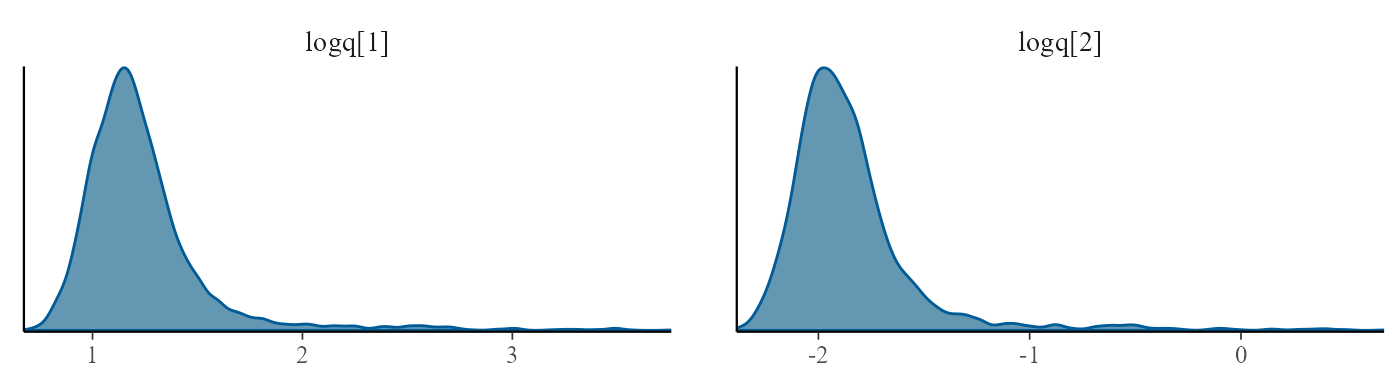
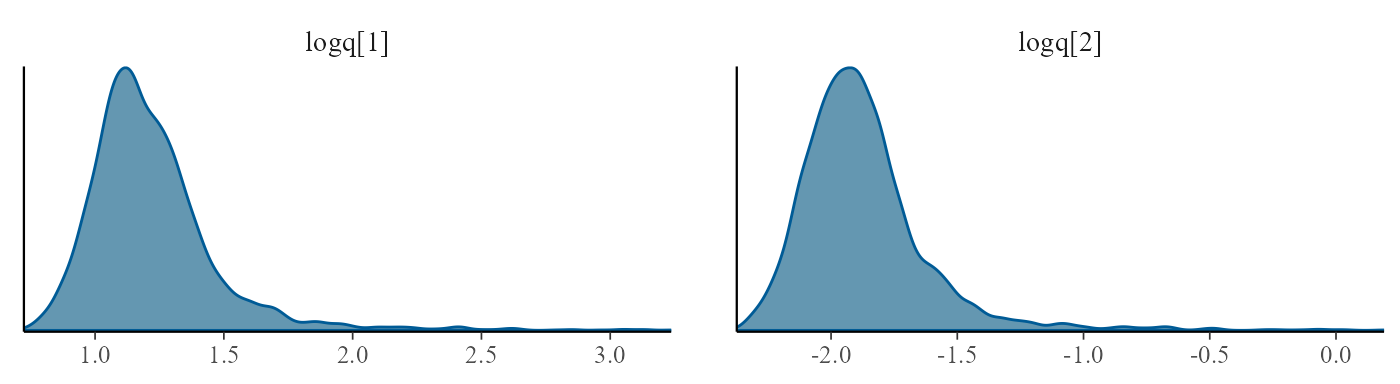
Rebuild articles

diff --git a/docs/articles/examples.html b/docs/articles/examples.html
@@ -31,12 +31,10 @@
 <li class="active nav-item dropdown">
   <button class="nav-link dropdown-toggle" type="button" id="dropdown-articles" data-bs-toggle="dropdown" aria-expanded="false" aria-haspopup="true">Articles</button>
   <ul class="dropdown-menu" aria-labelledby="dropdown-articles">
-<li><a class="dropdown-item" href="../articles/advanced.html">Advanced multi-state models in msmbayes</a></li>
-    <li><a class="dropdown-item" href="../articles/examples.html">Examples of using msmbayes</a></li>
+<li><a class="dropdown-item" href="../articles/examples.html">Examples of using msmbayes</a></li>
     <li><a class="dropdown-item" href="../articles/misclass.html">Misclassification multi-state models in msmbayes</a></li>
+    <li><a class="dropdown-item" href="../articles/semimarkov.html">Semi-Markov models with msmbayes</a></li>
     <li><a class="dropdown-item" href="../articles/nphase.html">Advanced phase-type models in msmbayes</a></li>
-    <li><a class="dropdown-item" href="../articles/pastates.html">Examples of using msmbayes</a></li>
-    <li><a class="dropdown-item" href="../articles/semimarkov.html">Semi-Markov models for intermittent observations with msmbayes</a></li>
   </ul>
 </li>
 <li class="nav-item"><a class="nav-link" href="../news/index.html">Changelog</a></li>
@@ -99,7 +97,7 @@ longitudinal study where people are repeatedly tested for an
 infection.</p>
 <p>We assume a two-state multi-state model, with states “test positive”
 and “test negative”.</p>
-<p><img src="../reference/figures/twostate.png" width="400px"></p>
+<p><img src="../reference/figures/twostate.png" alt="A two-state Markov model" width="400px"></p>
 <p>The data are simulated from a continuous-time Markov model with the
 following transition intensity matrix. Expressed in days or months,
 respectively, this is</p>
@@ -176,6 +174,9 @@ names.</p>
 <span>           <span class="fu"><a href="https://rdrr.io/r/base/c.html" class="external-link">c</a></span><span class="op">(</span><span class="fl">1</span>, <span class="fl">0</span><span class="op">)</span><span class="op">)</span></span>
 <span><span class="va">draws</span> <span class="op">&lt;-</span> <span class="fu"><a href="../reference/msmbayes.html">msmbayes</a></span><span class="op">(</span>data<span class="op">=</span><span class="va">infsim</span>, state<span class="op">=</span><span class="st">"state"</span>, time<span class="op">=</span><span class="st">"months"</span>, subject<span class="op">=</span><span class="st">"subject"</span>,</span>
 <span>                  Q<span class="op">=</span><span class="va">Q</span><span class="op">)</span></span></code></pre></div>
+<pre><code><span><span class="co">## Warning: Tail Effective Samples Size (ESS) is too low, indicating posterior variances and tail quantiles may be unreliable.</span></span>
+<span><span class="co">## Running the chains for more iterations may help. See</span></span>
+<span><span class="co">## https://mc-stan.org/misc/warnings.html#tail-ess</span></span></code></pre>
 <div class="section level4">
 <h4 id="transition-structure">Transition structure<a class="anchor" aria-label="anchor" href="#transition-structure"></a>
 </h4>
@@ -238,7 +239,7 @@ various alternative ways:</p>
 <p>Directly specifying the mean and standard deviation for
 <math display="inline" xmlns="http://www.w3.org/1998/Math/MathML"><semantics><mrow><mo>log</mo><mrow><mo stretchy="true" form="prefix">(</mo><msub><mi>q</mi><mrow><mi>r</mi><mi>s</mi></mrow></msub><mo stretchy="true" form="postfix">)</mo></mrow></mrow><annotation encoding="application/x-tex">\log(q_{rs})</annotation></semantics></math>,
 e.g.:</p>
-<div class="sourceCode" id="cb7"><pre class="downlit sourceCode r">
+<div class="sourceCode" id="cb8"><pre class="downlit sourceCode r">
 <code class="sourceCode R"><span><span class="va">priors</span> <span class="op">&lt;-</span> <span class="fu"><a href="https://rdrr.io/r/base/list.html" class="external-link">list</a></span><span class="op">(</span></span>
 <span>  <span class="fu"><a href="../reference/msmprior.html">msmprior</a></span><span class="op">(</span><span class="st">"logq(1,2)"</span>, mean<span class="op">=</span><span class="op">-</span><span class="fl">1</span>, sd<span class="op">=</span><span class="fl">5</span><span class="op">)</span>,</span>
 <span>  <span class="fu"><a href="../reference/msmprior.html">msmprior</a></span><span class="op">(</span><span class="st">"logq(2,1)"</span>, mean<span class="op">=</span><span class="op">-</span><span class="fl">1</span>, sd<span class="op">=</span><span class="fl">5</span><span class="op">)</span></span>
@@ -265,7 +266,7 @@ distribution on
 <math display="inline" xmlns="http://www.w3.org/1998/Math/MathML"><semantics><mrow><mo>log</mo><mrow><mo stretchy="true" form="prefix">(</mo><msub><mi>q</mi><mrow><mi>r</mi><mi>s</mi></mrow></msub><mo stretchy="true" form="postfix">)</mo></mrow></mrow><annotation encoding="application/x-tex">\log(q_{rs})</annotation></semantics></math>
 to be deduced. Different specifications can be mixed for different
 parameters, e.g. </p>
-<div class="sourceCode" id="cb8"><pre class="downlit sourceCode r">
+<div class="sourceCode" id="cb9"><pre class="downlit sourceCode r">
 <code class="sourceCode R"><span><span class="va">priors</span> <span class="op">&lt;-</span> <span class="fu"><a href="https://rdrr.io/r/base/list.html" class="external-link">list</a></span><span class="op">(</span></span>
 <span>  <span class="fu"><a href="../reference/msmprior.html">msmprior</a></span><span class="op">(</span><span class="st">"q(2,1)"</span>,    lower<span class="op">=</span><span class="fl">0.001</span>, upper<span class="op">=</span><span class="fl">5</span><span class="op">)</span>,</span>
 <span>  <span class="fu"><a href="../reference/msmprior.html">msmprior</a></span><span class="op">(</span><span class="st">"time(1,2)"</span>, median<span class="op">=</span><span class="fl">10</span>, upper<span class="op">=</span><span class="fl">30</span><span class="op">)</span></span>
@@ -316,11 +317,11 @@ transition intensities, labelled <code>logq</code>), and to examine the
 posterior distributions. Trace plots should look horizontal and fuzzy,
 like a sequence of independent draws from the same distribution, if the
 chains have converged (as here).</p>
-<div class="sourceCode" id="cb10"><pre class="downlit sourceCode r">
+<div class="sourceCode" id="cb11"><pre class="downlit sourceCode r">
 <code class="sourceCode R"><span><span class="kw"><a href="https://rdrr.io/r/base/library.html" class="external-link">library</a></span><span class="op">(</span><span class="va"><a href="https://mc-stan.org/bayesplot/" class="external-link">bayesplot</a></span><span class="op">)</span></span>
 <span><span class="fu"><a href="https://mc-stan.org/bayesplot/reference/MCMC-traces.html" class="external-link">mcmc_trace</a></span><span class="op">(</span><span class="va">draws</span>, pars<span class="op">=</span><span class="fu"><a href="https://rdrr.io/r/base/c.html" class="external-link">c</a></span><span class="op">(</span><span class="st">"logq[1]"</span>,<span class="st">"logq[2]"</span><span class="op">)</span><span class="op">)</span></span></code></pre></div>
 <p><img src="examples_files/figure-html/unnamed-chunk-7-1.png" width="700"></p>
-<div class="sourceCode" id="cb11"><pre class="downlit sourceCode r">
+<div class="sourceCode" id="cb12"><pre class="downlit sourceCode r">
 <code class="sourceCode R"><span><span class="fu"><a href="https://mc-stan.org/bayesplot/reference/MCMC-distributions.html" class="external-link">mcmc_dens</a></span><span class="op">(</span><span class="va">draws</span>, pars<span class="op">=</span><span class="fu"><a href="https://rdrr.io/r/base/c.html" class="external-link">c</a></span><span class="op">(</span><span class="st">"logq[1]"</span>,<span class="st">"logq[2]"</span><span class="op">)</span><span class="op">)</span></span></code></pre></div>
 <p><img src="examples_files/figure-html/unnamed-chunk-7-2.png" width="700"></p>
 <p>The <code><a href="https://rdrr.io/r/base/summary.html" class="external-link">summary()</a></code> function can be used to summarise the
@@ -330,15 +331,15 @@ summary of the posterior for each parameter (variable
 parameter. Since transition intensities are hard to interpret in
 isolation, the mean sojourn times in each state are included alongside,
 labelled <code>mst</code>.</p>
-<div class="sourceCode" id="cb12"><pre class="downlit sourceCode r">
+<div class="sourceCode" id="cb13"><pre class="downlit sourceCode r">
 <code class="sourceCode R"><span><span class="fu"><a href="https://rdrr.io/r/base/summary.html" class="external-link">summary</a></span><span class="op">(</span><span class="va">draws</span><span class="op">)</span></span></code></pre></div>
-<pre><code><span><span class="co">## <span style="color: #949494;"># A tibble: 4 × 5</span></span></span>
-<span><span class="co">##   name   from    to         value  rhat</span></span>
-<span><span class="co">##   <span style="color: #949494; font-style: italic;">&lt;chr&gt;</span> <span style="color: #949494; font-style: italic;">&lt;int&gt;</span> <span style="color: #949494; font-style: italic;">&lt;int&gt;</span>    <span style="color: #949494; font-style: italic;">&lt;rvar[1d]&gt;</span> <span style="color: #949494; font-style: italic;">&lt;dbl&gt;</span></span></span>
-<span><span class="co">## <span style="color: #BCBCBC;">1</span> q         1     2  0.17 <span style="color: #949494;">± 0.110</span>  1.00</span></span>
-<span><span class="co">## <span style="color: #BCBCBC;">2</span> q         2     1  3.72 <span style="color: #949494;">± 2.391</span>  1.00</span></span>
-<span><span class="co">## <span style="color: #BCBCBC;">3</span> mst       1    <span style="color: #BB0000;">NA</span>  6.60 <span style="color: #949494;">± 1.536</span>  1.00</span></span>
-<span><span class="co">## <span style="color: #BCBCBC;">4</span> mst       2    <span style="color: #BB0000;">NA</span>  0.30 <span style="color: #949494;">± 0.069</span>  1.00</span></span></code></pre>
+<pre><code><span><span class="co">## <span style="color: #949494;"># A tibble: 4 × 6</span></span></span>
+<span><span class="co">##   name   from    to         value  rhat prior_string      </span></span>
+<span><span class="co">##   <span style="color: #949494; font-style: italic;">&lt;chr&gt;</span> <span style="color: #949494; font-style: italic;">&lt;int&gt;</span> <span style="color: #949494; font-style: italic;">&lt;int&gt;</span>    <span style="color: #949494; font-style: italic;">&lt;rvar[1d]&gt;</span> <span style="color: #949494; font-style: italic;">&lt;dbl&gt;</span> <span style="color: #949494; font-style: italic;">&lt;chr&gt;</span>             </span></span>
+<span><span class="co">## <span style="color: #BCBCBC;">1</span> q         1     2  0.16 <span style="color: #949494;">± 0.063</span>  1.01 0.14 (0.0027, 6.7)</span></span>
+<span><span class="co">## <span style="color: #BCBCBC;">2</span> q         2     1  3.53 <span style="color: #949494;">± 1.390</span>  1.01 0.14 (0.0027, 6.7)</span></span>
+<span><span class="co">## <span style="color: #BCBCBC;">3</span> mst       1    <span style="color: #BB0000;">NA</span>  6.68 <span style="color: #949494;">± 1.420</span>  1.01 7.4 (0.15, 369)   </span></span>
+<span><span class="co">## <span style="color: #BCBCBC;">4</span> mst       2    <span style="color: #BB0000;">NA</span>  0.30 <span style="color: #949494;">± 0.063</span>  1.01 7.4 (0.15, 369)</span></span></code></pre>
 <p>The mean sojourn times are estimated to be (within estimation error)
 close to the true values of 6 and 0.33 months, as expected.</p>
 <p>Set <code>time=TRUE</code> to summarise the
@@ -347,15 +348,15 @@ close to the true values of 6 and 0.33 months, as expected.</p>
 their priors. If there are no competing risks, as here, these are equal
 to the mean sojourn times. Or set <code>log=TRUE</code> to summarise the
 <math display="inline" xmlns="http://www.w3.org/1998/Math/MathML"><semantics><mrow><mo>log</mo><mrow><mo stretchy="true" form="prefix">(</mo><msub><mi>q</mi><mrow><mi>r</mi><mi>s</mi></mrow></msub><mo stretchy="true" form="postfix">)</mo></mrow></mrow><annotation encoding="application/x-tex">\log(q_{rs})</annotation></semantics></math>.</p>
-<div class="sourceCode" id="cb14"><pre class="downlit sourceCode r">
+<div class="sourceCode" id="cb15"><pre class="downlit sourceCode r">
 <code class="sourceCode R"><span><span class="fu"><a href="https://rdrr.io/r/base/summary.html" class="external-link">summary</a></span><span class="op">(</span><span class="va">draws</span>, time<span class="op">=</span><span class="cn">TRUE</span><span class="op">)</span></span></code></pre></div>
-<pre><code><span><span class="co">## <span style="color: #949494;"># A tibble: 4 × 5</span></span></span>
-<span><span class="co">##   name   from    to        value  rhat</span></span>
-<span><span class="co">##   <span style="color: #949494; font-style: italic;">&lt;chr&gt;</span> <span style="color: #949494; font-style: italic;">&lt;int&gt;</span> <span style="color: #949494; font-style: italic;">&lt;int&gt;</span>   <span style="color: #949494; font-style: italic;">&lt;rvar[1d]&gt;</span> <span style="color: #949494; font-style: italic;">&lt;dbl&gt;</span></span></span>
-<span><span class="co">## <span style="color: #BCBCBC;">1</span> time      1     2  6.6 <span style="color: #949494;">± 1.536</span>  1.00</span></span>
-<span><span class="co">## <span style="color: #BCBCBC;">2</span> time      2     1  0.3 <span style="color: #949494;">± 0.069</span>  1.00</span></span>
-<span><span class="co">## <span style="color: #BCBCBC;">3</span> mst       1    <span style="color: #BB0000;">NA</span>  6.6 <span style="color: #949494;">± 1.536</span>  1.00</span></span>
-<span><span class="co">## <span style="color: #BCBCBC;">4</span> mst       2    <span style="color: #BB0000;">NA</span>  0.3 <span style="color: #949494;">± 0.069</span>  1.00</span></span></code></pre>
+<pre><code><span><span class="co">## <span style="color: #949494;"># A tibble: 4 × 6</span></span></span>
+<span><span class="co">##   name   from    to        value  rhat prior_string   </span></span>
+<span><span class="co">##   <span style="color: #949494; font-style: italic;">&lt;chr&gt;</span> <span style="color: #949494; font-style: italic;">&lt;int&gt;</span> <span style="color: #949494; font-style: italic;">&lt;int&gt;</span>   <span style="color: #949494; font-style: italic;">&lt;rvar[1d]&gt;</span> <span style="color: #949494; font-style: italic;">&lt;dbl&gt;</span> <span style="color: #949494; font-style: italic;">&lt;chr&gt;</span>          </span></span>
+<span><span class="co">## <span style="color: #BCBCBC;">1</span> time      1     2  6.7 <span style="color: #949494;">± 1.420</span>  1.01 <span style="color: #BB0000;">NA</span>             </span></span>
+<span><span class="co">## <span style="color: #BCBCBC;">2</span> time      2     1  0.3 <span style="color: #949494;">± 0.063</span>  1.01 <span style="color: #BB0000;">NA</span>             </span></span>
+<span><span class="co">## <span style="color: #BCBCBC;">3</span> mst       1    <span style="color: #BB0000;">NA</span>  6.7 <span style="color: #949494;">± 1.420</span>  1.01 7.4 (0.15, 369)</span></span>
+<span><span class="co">## <span style="color: #BCBCBC;">4</span> mst       2    <span style="color: #BB0000;">NA</span>  0.3 <span style="color: #949494;">± 0.063</span>  1.01 7.4 (0.15, 369)</span></span></code></pre>
 <p>The <code>summary</code> output also gives the “Rhat” convergence
 diagnostic, which should be close to 1.0 if the MCMC estimation has
 converged (<a href="https://mc-stan.org/rstan/reference/Rhat.html" class="external-link">see
@@ -381,11 +382,11 @@ frames.</p>
 their own functions, as in the following call. See the
 <code>posterior</code> package <a href="https://mc-stan.org/posterior/reference/draws_summary.html" class="external-link">documentation</a>
 for more examples.</p>
-<div class="sourceCode" id="cb16"><pre class="downlit sourceCode r">
+<div class="sourceCode" id="cb17"><pre class="downlit sourceCode r">
 <code class="sourceCode R"><span><span class="fu"><a href="https://rdrr.io/r/base/summary.html" class="external-link">summary</a></span><span class="op">(</span><span class="fu"><a href="../reference/mean_sojourn.html">mean_sojourn</a></span><span class="op">(</span><span class="va">draws</span><span class="op">)</span>, <span class="va">mean</span>, <span class="va">median</span>, <span class="op">~</span><span class="fu"><a href="https://rdrr.io/r/stats/quantile.html" class="external-link">quantile</a></span><span class="op">(</span><span class="va">.x</span>, <span class="fu"><a href="https://rdrr.io/r/base/c.html" class="external-link">c</a></span><span class="op">(</span><span class="fl">0.025</span>, <span class="fl">0.975</span><span class="op">)</span><span class="op">)</span><span class="op">)</span></span></code></pre></div>
-<pre><code><span><span class="co">##   state      mean    median      2.5%     97.5%</span></span>
-<span><span class="co">## 1     1 6.6043256 6.7502869 2.5339400 9.2099415</span></span>
-<span><span class="co">## 2     2 0.3009215 0.3073494 0.1152524 0.4172863</span></span></code></pre>
+<pre><code><span><span class="co">##   state     mean    median      2.5%    97.5%</span></span>
+<span><span class="co">## 1     1 6.683310 6.7464642 3.4533375 9.269407</span></span>
+<span><span class="co">## 2     2 0.303457 0.3088913 0.1570317 0.416692</span></span></code></pre>
 </div>
 </div>
 <div class="section level2">
@@ -422,7 +423,7 @@ supposes that sex and age are predictors of both the 1-2 and 2-1
 transition intensities. Weakly informative priors are defined for the
 covariate effects, through specifying upper 95% credible limits of 50
 for the hazard ratios.</p>
-<div class="sourceCode" id="cb18"><pre class="downlit sourceCode r">
+<div class="sourceCode" id="cb19"><pre class="downlit sourceCode r">
 <code class="sourceCode R"><span><span class="va">priors</span> <span class="op">&lt;-</span> <span class="fu"><a href="https://rdrr.io/r/base/list.html" class="external-link">list</a></span><span class="op">(</span><span class="fu"><a href="../reference/msmprior.html">msmprior</a></span><span class="op">(</span><span class="st">"hr(age10,1,2)"</span>,median<span class="op">=</span><span class="fl">1</span>,upper<span class="op">=</span><span class="fl">50</span><span class="op">)</span>,</span>
 <span>               <span class="fu"><a href="../reference/msmprior.html">msmprior</a></span><span class="op">(</span><span class="st">"hr(age10,2,1)"</span>,median<span class="op">=</span><span class="fl">1</span>,upper<span class="op">=</span><span class="fl">50</span><span class="op">)</span>,</span>
 <span>               <span class="fu"><a href="../reference/msmprior.html">msmprior</a></span><span class="op">(</span><span class="st">"hr(sexmale,1,2)"</span>,median<span class="op">=</span><span class="fl">1</span>,upper<span class="op">=</span><span class="fl">50</span><span class="op">)</span>,</span>
@@ -457,30 +458,30 @@ of the baseline intensities
 and the hazard ratios
 <math display="inline" xmlns="http://www.w3.org/1998/Math/MathML"><semantics><mrow><mi>e</mi><mi>x</mi><mi>p</mi><mrow><mo stretchy="true" form="prefix">(</mo><msub><mi>β</mi><mrow><mi>r</mi><mi>s</mi></mrow></msub><mo stretchy="true" form="postfix">)</mo></mrow></mrow><annotation encoding="application/x-tex">exp(\beta_{rs})</annotation></semantics></math>,
 indicated here by covariate name and transition.</p>
-<div class="sourceCode" id="cb19"><pre class="downlit sourceCode r">
+<div class="sourceCode" id="cb20"><pre class="downlit sourceCode r">
 <code class="sourceCode R"><span><span class="fu"><a href="https://rdrr.io/r/base/summary.html" class="external-link">summary</a></span><span class="op">(</span><span class="va">draws</span><span class="op">)</span> </span></code></pre></div>
-<pre><code><span><span class="co">## <span style="color: #949494;"># A tibble: 8 × 5</span></span></span>
-<span><span class="co">##   name         from    to         value  rhat</span></span>
-<span><span class="co">##   <span style="color: #949494; font-style: italic;">&lt;chr&gt;</span>       <span style="color: #949494; font-style: italic;">&lt;dbl&gt;</span> <span style="color: #949494; font-style: italic;">&lt;dbl&gt;</span>    <span style="color: #949494; font-style: italic;">&lt;rvar[1d]&gt;</span> <span style="color: #949494; font-style: italic;">&lt;dbl&gt;</span></span></span>
-<span><span class="co">## <span style="color: #BCBCBC;">1</span> q               1     2  0.21 <span style="color: #949494;">± 0.083</span>  1.00</span></span>
-<span><span class="co">## <span style="color: #BCBCBC;">2</span> q               2     1  4.73 <span style="color: #949494;">± 1.912</span>  1.00</span></span>
-<span><span class="co">## <span style="color: #BCBCBC;">3</span> mst             1    <span style="color: #BB0000;">NA</span>  5.52 <span style="color: #949494;">± 2.217</span>  1.00</span></span>
-<span><span class="co">## <span style="color: #BCBCBC;">4</span> mst             2    <span style="color: #BB0000;">NA</span>  0.25 <span style="color: #949494;">± 0.100</span>  1.00</span></span>
-<span><span class="co">## <span style="color: #BCBCBC;">5</span> hr(sexmale)     1     2  5.68 <span style="color: #949494;">± 2.264</span>  1.00</span></span>
-<span><span class="co">## <span style="color: #BCBCBC;">6</span> hr(age10)       1     2  3.13 <span style="color: #949494;">± 1.524</span>  1.00</span></span>
-<span><span class="co">## <span style="color: #BCBCBC;">7</span> hr(sexmale)     2     1  0.61 <span style="color: #949494;">± 0.260</span>  1.00</span></span>
-<span><span class="co">## <span style="color: #BCBCBC;">8</span> hr(age10)       2     1  0.37 <span style="color: #949494;">± 0.197</span>  1.00</span></span></code></pre>
+<pre><code><span><span class="co">## <span style="color: #949494;"># A tibble: 8 × 6</span></span></span>
+<span><span class="co">##   name         from    to         value  rhat prior_string      </span></span>
+<span><span class="co">##   <span style="color: #949494; font-style: italic;">&lt;chr&gt;</span>       <span style="color: #949494; font-style: italic;">&lt;dbl&gt;</span> <span style="color: #949494; font-style: italic;">&lt;dbl&gt;</span>    <span style="color: #949494; font-style: italic;">&lt;rvar[1d]&gt;</span> <span style="color: #949494; font-style: italic;">&lt;dbl&gt;</span> <span style="color: #949494; font-style: italic;">&lt;chr&gt;</span>             </span></span>
+<span><span class="co">## <span style="color: #BCBCBC;">1</span> q               1     2  0.21 <span style="color: #949494;">± 0.084</span>  1.00 0.14 (0.0027, 6.7)</span></span>
+<span><span class="co">## <span style="color: #BCBCBC;">2</span> q               2     1  4.67 <span style="color: #949494;">± 1.904</span>  1.00 0.14 (0.0027, 6.7)</span></span>
+<span><span class="co">## <span style="color: #BCBCBC;">3</span> mst             1    <span style="color: #BB0000;">NA</span>  5.59 <span style="color: #949494;">± 2.257</span>  1.00 7.4 (0.15, 369)   </span></span>
+<span><span class="co">## <span style="color: #BCBCBC;">4</span> mst             2    <span style="color: #BB0000;">NA</span>  0.25 <span style="color: #949494;">± 0.101</span>  1.00 7.4 (0.15, 369)   </span></span>
+<span><span class="co">## <span style="color: #BCBCBC;">5</span> hr(sexmale)     1     2  5.74 <span style="color: #949494;">± 2.315</span>  1.00 1 (0.02, 49)      </span></span>
+<span><span class="co">## <span style="color: #BCBCBC;">6</span> hr(age10)       1     2  3.19 <span style="color: #949494;">± 1.587</span>  1.00 1 (0.02, 49)      </span></span>
+<span><span class="co">## <span style="color: #BCBCBC;">7</span> hr(sexmale)     2     1  0.62 <span style="color: #949494;">± 0.264</span>  1.00 1 (0.02, 49)      </span></span>
+<span><span class="co">## <span style="color: #BCBCBC;">8</span> hr(age10)       2     1  0.38 <span style="color: #949494;">± 0.205</span>  1.00 1 (0.02, 49)</span></span></code></pre>
 <p>The functions <code>loghr</code> or <code>hr</code> can be used to
 summarise the log hazard ratios or hazard ratios in isolation. The
 estimates of the log hazard ratios are close to the true values of 2, 1,
 0, and -1 used to simulate the data, within estimation error.</p>
-<div class="sourceCode" id="cb21"><pre class="downlit sourceCode r">
+<div class="sourceCode" id="cb22"><pre class="downlit sourceCode r">
 <code class="sourceCode R"><span><span class="fu"><a href="../reference/loghr.html">loghr</a></span><span class="op">(</span><span class="va">draws</span><span class="op">)</span>   </span></code></pre></div>
 <pre><code><span><span class="co">##   from to    name        value</span></span>
-<span><span class="co">## 1    1  2 sexmale  1.66 ± 0.38</span></span>
-<span><span class="co">## 2    1  2   age10  1.04 ± 0.46</span></span>
-<span><span class="co">## 3    2  1 sexmale -0.58 ± 0.41</span></span>
-<span><span class="co">## 4    2  1   age10 -1.12 ± 0.50</span></span></code></pre>
+<span><span class="co">## 1    1  2 sexmale  1.67 ± 0.39</span></span>
+<span><span class="co">## 2    1  2   age10  1.05 ± 0.47</span></span>
+<span><span class="co">## 3    2  1 sexmale -0.57 ± 0.41</span></span>
+<span><span class="co">## 4    2  1   age10 -1.11 ± 0.51</span></span></code></pre>
 <p>Note the posterior distributions are skewed, hence the posterior mean
 of the hazard ratio is different from the
 <math display="inline" xmlns="http://www.w3.org/1998/Math/MathML"><semantics><mrow><mo>exp</mo><mrow><mo stretchy="true" form="prefix">(</mo><mo stretchy="true" form="postfix">)</mo></mrow></mrow><annotation encoding="application/x-tex">\exp()</annotation></semantics></math>
@@ -497,7 +498,7 @@ or quantiles of either the hazard ratios or the log hazard ratios. Note
 the specific covariate should be referred to as well as the transition.
 For example, to define priors for the effect of age on the 1-2 and 2-1
 transition rates respectively:</p>
-<div class="sourceCode" id="cb23"><pre class="downlit sourceCode r">
+<div class="sourceCode" id="cb24"><pre class="downlit sourceCode r">
 <code class="sourceCode R"><span><span class="va">priors</span> <span class="op">&lt;-</span> <span class="fu"><a href="https://rdrr.io/r/base/list.html" class="external-link">list</a></span><span class="op">(</span><span class="fu"><a href="../reference/msmprior.html">msmprior</a></span><span class="op">(</span><span class="st">"loghr(age,1,2)"</span>, mean<span class="op">=</span><span class="fl">0</span>,   sd<span class="op">=</span><span class="fl">2</span><span class="op">)</span>,</span>
 <span>               <span class="fu"><a href="../reference/msmprior.html">msmprior</a></span><span class="op">(</span><span class="st">"hr(age,2,1)"</span>,    median<span class="op">=</span><span class="fl">1</span>, upper<span class="op">=</span><span class="fl">5</span><span class="op">)</span><span class="op">)</span></span></code></pre></div>
 <p>For factor covariates, the appropriate factor level should be
@@ -558,9 +559,11 @@ model<a class="anchor" aria-label="anchor" href="#comparison-between-a-bayesian-
 maximum likelihood. Awkwardly, the optimiser used by <code>msm</code>
 needs to be tuned (with the <code>fnscale</code> option) to find the
 global optimum.</p>
-<div class="sourceCode" id="cb24"><pre class="downlit sourceCode r">
-<code class="sourceCode R"><span><span class="kw"><a href="https://rdrr.io/r/base/library.html" class="external-link">library</a></span><span class="op">(</span><span class="va"><a href="https://github.com/chjackson/msm" class="external-link">msm</a></span><span class="op">)</span></span>
-<span><span class="fu"><a href="https://chjackson.github.io/msm/reference/msm.html" class="external-link">msm</a></span><span class="op">(</span><span class="va">statec</span><span class="op">~</span><span class="va">months</span>, subject <span class="op">=</span> <span class="va">subject</span>, data <span class="op">=</span> <span class="va">infsim</span>, qmatrix <span class="op">=</span> <span class="va">Q</span>, </span>
+<div class="sourceCode" id="cb25"><pre class="downlit sourceCode r">
+<code class="sourceCode R"><span><span class="kw"><a href="https://rdrr.io/r/base/library.html" class="external-link">library</a></span><span class="op">(</span><span class="va"><a href="https://github.com/chjackson/msm" class="external-link">msm</a></span><span class="op">)</span></span></code></pre></div>
+<pre><code><span><span class="co">## Warning: package 'msm' was built under R version 4.4.2</span></span></code></pre>
+<div class="sourceCode" id="cb27"><pre class="downlit sourceCode r">
+<code class="sourceCode R"><span><span class="fu"><a href="https://chjackson.github.io/msm/reference/msm.html" class="external-link">msm</a></span><span class="op">(</span><span class="va">statec</span><span class="op">~</span><span class="va">months</span>, subject <span class="op">=</span> <span class="va">subject</span>, data <span class="op">=</span> <span class="va">infsim</span>, qmatrix <span class="op">=</span> <span class="va">Q</span>, </span>
 <span>    covariates <span class="op">=</span> <span class="fu"><a href="https://rdrr.io/r/base/list.html" class="external-link">list</a></span><span class="op">(</span><span class="st">"1-2"</span> <span class="op">=</span> <span class="op">~</span><span class="va">sex</span><span class="op">+</span><span class="va">age10</span>, <span class="st">"2-1"</span> <span class="op">=</span> <span class="op">~</span><span class="va">sex</span><span class="op">+</span><span class="va">age10</span><span class="op">)</span>,</span>
 <span>    control <span class="op">=</span> <span class="fu"><a href="https://rdrr.io/r/base/list.html" class="external-link">list</a></span><span class="op">(</span>fnscale<span class="op">=</span><span class="fl">1000</span>, maxit<span class="op">=</span><span class="fl">10000</span><span class="op">)</span><span class="op">)</span></span></code></pre></div>
 <pre><code><span><span class="co">## </span></span>
@@ -583,7 +586,7 @@ global optimum.</p>
 <span><span class="co">## State 2 - State 2                       </span></span>
 <span><span class="co">## </span></span>
 <span><span class="co">## -2 * log-likelihood:  2625.65</span></span></code></pre>
-<div class="sourceCode" id="cb26"><pre class="downlit sourceCode r">
+<div class="sourceCode" id="cb29"><pre class="downlit sourceCode r">
 <code class="sourceCode R"><span><span class="fu"><a href="https://rdrr.io/r/base/Log.html" class="external-link">exp</a></span><span class="op">(</span><span class="fu"><a href="https://rdrr.io/r/base/c.html" class="external-link">c</a></span><span class="op">(</span><span class="fl">2</span>,<span class="fl">1</span>,<span class="fl">0</span>,<span class="op">-</span><span class="fl">1</span><span class="op">)</span><span class="op">)</span></span></code></pre></div>
 <pre><code><span><span class="co">## [1] 7.3890561 2.7182818 1.0000000 0.3678794</span></span></code></pre>
 <p>The estimates of the hazard ratios (note, not the log hazard ratios

diff --git a/docs/articles/nphase.html b/docs/articles/nphase.html
@@ -35,8 +35,6 @@
     <li><a class="dropdown-item" href="../articles/misclass.html">Misclassification multi-state models in msmbayes</a></li>
     <li><a class="dropdown-item" href="../articles/semimarkov.html">Semi-Markov models with msmbayes</a></li>
     <li><a class="dropdown-item" href="../articles/nphase.html">Advanced phase-type models in msmbayes</a></li>
-    <li><hr class="dropdown-divider"></li>
-    <li><a class="dropdown-item" href="../articles/index.html">More articles...</a></li>
   </ul>
 </li>
 <li class="nav-item"><a class="nav-link" href="../news/index.html">Changelog</a></li>
@@ -145,16 +143,15 @@ estimated rates of transition out of each phase to be identical.</p>
 <span>                  Q<span class="op">=</span><span class="va">Q</span>, nphase<span class="op">=</span><span class="fu"><a href="https://rdrr.io/r/base/c.html" class="external-link">c</a></span><span class="op">(</span><span class="fl">1</span>,<span class="fl">2</span><span class="op">)</span>, fit_method <span class="op">=</span> <span class="st">"optimize"</span><span class="op">)</span></span></code></pre></div>
 <div class="sourceCode" id="cb4"><pre class="downlit sourceCode r">
 <code class="sourceCode R"><span><span class="fu"><a href="https://rdrr.io/r/base/summary.html" class="external-link">summary</a></span><span class="op">(</span><span class="va">draws</span><span class="op">)</span></span></code></pre></div>
-<pre><code><span><span class="co">## <span style="color: #949494;"># A tibble: 7 × 5</span></span></span>
-<span><span class="co">##   name  from  to             value  rhat</span></span>
-<span><span class="co">##   <span style="color: #949494; font-style: italic;">&lt;chr&gt;</span> <span style="color: #949494; font-style: italic;">&lt;chr&gt;</span> <span style="color: #949494; font-style: italic;">&lt;chr&gt;</span>     <span style="color: #949494; font-style: italic;">&lt;rvar[1d]&gt;</span> <span style="color: #949494; font-style: italic;">&lt;dbl&gt;</span></span></span>
-<span><span class="co">## <span style="color: #BCBCBC;">1</span> q     1     2p1     0.74 <span style="color: #949494;">± 0.34</span>   1.00</span></span>
-<span><span class="co">## <span style="color: #BCBCBC;">2</span> q     2p1   1       4.37 <span style="color: #949494;">± 2.04</span>   1.00</span></span>
-<span><span class="co">## <span style="color: #BCBCBC;">3</span> q     2p1   2p2     0.30 <span style="color: #949494;">± 1.57</span>   1.00</span></span>
-<span><span class="co">## <span style="color: #BCBCBC;">4</span> q     2p2   1       6.53 <span style="color: #949494;">± 47.07</span>  1.00</span></span>
-<span><span class="co">## <span style="color: #BCBCBC;">5</span> mst   1     <span style="color: #BB0000;">NA</span>      1.64 <span style="color: #949494;">± 0.74</span>   1.00</span></span>
-<span><span class="co">## <span style="color: #BCBCBC;">6</span> mst   2p1   <span style="color: #BB0000;">NA</span>      0.26 <span style="color: #949494;">± 0.12</span>   1.00</span></span>
-<span><span class="co">## <span style="color: #BCBCBC;">7</span> mst   2p2   <span style="color: #BB0000;">NA</span>     11.42 <span style="color: #949494;">± 61.21</span>  1.00</span></span></code></pre>
+<pre><code><span><span class="co">## <span style="color: #949494;"># A tibble: 6 × 6</span></span></span>
+<span><span class="co">##   name  from  to            value  rhat prior_string    </span></span>
+<span><span class="co">##   <span style="color: #949494; font-style: italic;">&lt;chr&gt;</span> <span style="color: #949494; font-style: italic;">&lt;chr&gt;</span> <span style="color: #949494; font-style: italic;">&lt;chr&gt;</span>    <span style="color: #949494; font-style: italic;">&lt;rvar[1d]&gt;</span> <span style="color: #949494; font-style: italic;">&lt;dbl&gt;</span> <span style="color: #949494; font-style: italic;">&lt;chr&gt;</span>           </span></span>
+<span><span class="co">## <span style="color: #BCBCBC;">1</span> q     1     2p1    0.74 <span style="color: #949494;">± 0.34</span>   1.00 <span style="color: #BB0000;">NA</span>              </span></span>
+<span><span class="co">## <span style="color: #BCBCBC;">2</span> q     2p1   1      4.37 <span style="color: #949494;">± 2.04</span>   1.00 <span style="color: #BB0000;">NA</span>              </span></span>
+<span><span class="co">## <span style="color: #BCBCBC;">3</span> q     2p1   2p2    0.30 <span style="color: #949494;">± 1.57</span>   1.00 <span style="color: #BB0000;">NA</span>              </span></span>
+<span><span class="co">## <span style="color: #BCBCBC;">4</span> q     2p2   1      6.53 <span style="color: #949494;">± 47.07</span>  1.00 <span style="color: #BB0000;">NA</span>              </span></span>
+<span><span class="co">## <span style="color: #BCBCBC;">5</span> mst   1     <span style="color: #BB0000;">NA</span>     1.64 <span style="color: #949494;">± 0.74</span>   1.00 7.4 (0.148, 369)</span></span>
+<span><span class="co">## <span style="color: #BCBCBC;">6</span> mst   2     <span style="color: #BB0000;">NA</span>     0.30 <span style="color: #949494;">± 0.16</span>   1.00 3.7 (0.074, 184)</span></span></code></pre>
 <p>The phased states are labelled specially here, e.g. the first phase
 of state 2 is labelled <code>"2p1"</code>. The estimated transition
 rates from the two phases of state 2 to state 1 are not significantly
@@ -242,24 +239,24 @@ error) with the values used for simulation.</p>
 <span><span class="co">## [3,]    0 0.00 0.000 0.200</span></span>
 <span><span class="co">## [4,]    0 0.00 0.000 0.000</span></span></code></pre>
 <p>The mean sojourn times in states of a phase-type model can either be
-calculated for the latent state space (<code>by_phase=TRUE</code>, the
-default), or the observable state space
-(<code>by_phase=FALSE</code>).</p>
+calculated for the observable state space (<code>states="obs"</code>,
+the default), or the latent state space
+(<code>states="phase"</code>).</p>
 <div class="sourceCode" id="cb17"><pre class="downlit sourceCode r">
 <code class="sourceCode R"><span><span class="fu"><a href="../reference/mean_sojourn.html">mean_sojourn</a></span><span class="op">(</span><span class="va">draws</span><span class="op">)</span></span></code></pre></div>
+<pre><code><span><span class="co">## <span style="color: #949494;"># A tibble: 2 × 2</span></span></span>
+<span><span class="co">##   state      value</span></span>
+<span><span class="co">##   <span style="color: #949494; font-style: italic;">&lt;int&gt;</span> <span style="color: #949494; font-style: italic;">&lt;rvar[1d]&gt;</span></span></span>
+<span><span class="co">## <span style="color: #BCBCBC;">1</span>     1  27 <span style="color: #949494;">± 0.45</span></span></span>
+<span><span class="co">## <span style="color: #BCBCBC;">2</span>     2   5 <span style="color: #949494;">± 0.15</span></span></span></code></pre>
+<div class="sourceCode" id="cb19"><pre class="downlit sourceCode r">
+<code class="sourceCode R"><span><span class="fu"><a href="../reference/mean_sojourn.html">mean_sojourn</a></span><span class="op">(</span><span class="va">draws</span>, states<span class="op">=</span><span class="st">"phase"</span><span class="op">)</span> </span></code></pre></div>
 <pre><code><span><span class="co">## <span style="color: #949494;"># A tibble: 3 × 4</span></span></span>
 <span><span class="co">##   state        value stateobs statephase</span></span>
 <span><span class="co">##   <span style="color: #949494; font-style: italic;">&lt;chr&gt;</span>   <span style="color: #949494; font-style: italic;">&lt;rvar[1d]&gt;</span>    <span style="color: #949494; font-style: italic;">&lt;int&gt;</span>      <span style="color: #949494; font-style: italic;">&lt;int&gt;</span></span></span>
 <span><span class="co">## <span style="color: #BCBCBC;">1</span> 1p1     4.6 <span style="color: #949494;">± 1.35</span>        1          1</span></span>
 <span><span class="co">## <span style="color: #BCBCBC;">2</span> 1p2    25.5 <span style="color: #949494;">± 0.38</span>        1          2</span></span>
 <span><span class="co">## <span style="color: #BCBCBC;">3</span> 2       5.0 <span style="color: #949494;">± 0.15</span>        2          1</span></span></code></pre>
-<div class="sourceCode" id="cb19"><pre class="downlit sourceCode r">
-<code class="sourceCode R"><span><span class="fu"><a href="../reference/mean_sojourn.html">mean_sojourn</a></span><span class="op">(</span><span class="va">draws</span>, by_phase<span class="op">=</span><span class="cn">FALSE</span><span class="op">)</span> </span></code></pre></div>
-<pre><code><span><span class="co">## <span style="color: #949494;"># A tibble: 2 × 2</span></span></span>
-<span><span class="co">##   state      value</span></span>
-<span><span class="co">##   <span style="color: #949494; font-style: italic;">&lt;int&gt;</span> <span style="color: #949494; font-style: italic;">&lt;rvar[1d]&gt;</span></span></span>
-<span><span class="co">## <span style="color: #BCBCBC;">1</span>     1  27 <span style="color: #949494;">± 0.45</span></span></span>
-<span><span class="co">## <span style="color: #BCBCBC;">2</span>     2   5 <span style="color: #949494;">± 0.15</span></span></span></code></pre>
 <p>More practical experience of using general phase-type models for
 intermittently-observed multi-state data is needed. In particular:</p>
 <ul>

diff --git a/docs/articles/misclass.html b/docs/articles/misclass.html
@@ -33,7 +33,7 @@
   <ul class="dropdown-menu" aria-labelledby="dropdown-articles">
 <li><a class="dropdown-item" href="../articles/examples.html">Examples of using msmbayes</a></li>
     <li><a class="dropdown-item" href="../articles/misclass.html">Misclassification multi-state models in msmbayes</a></li>
-    <li><a class="dropdown-item" href="../articles/semimarkov.html">Semi-Markov models for intermittent observations with msmbayes</a></li>
+    <li><a class="dropdown-item" href="../articles/semimarkov.html">Semi-Markov models with msmbayes</a></li>
     <li><a class="dropdown-item" href="../articles/nphase.html">Advanced phase-type models in msmbayes</a></li>
   </ul>
 </li>
